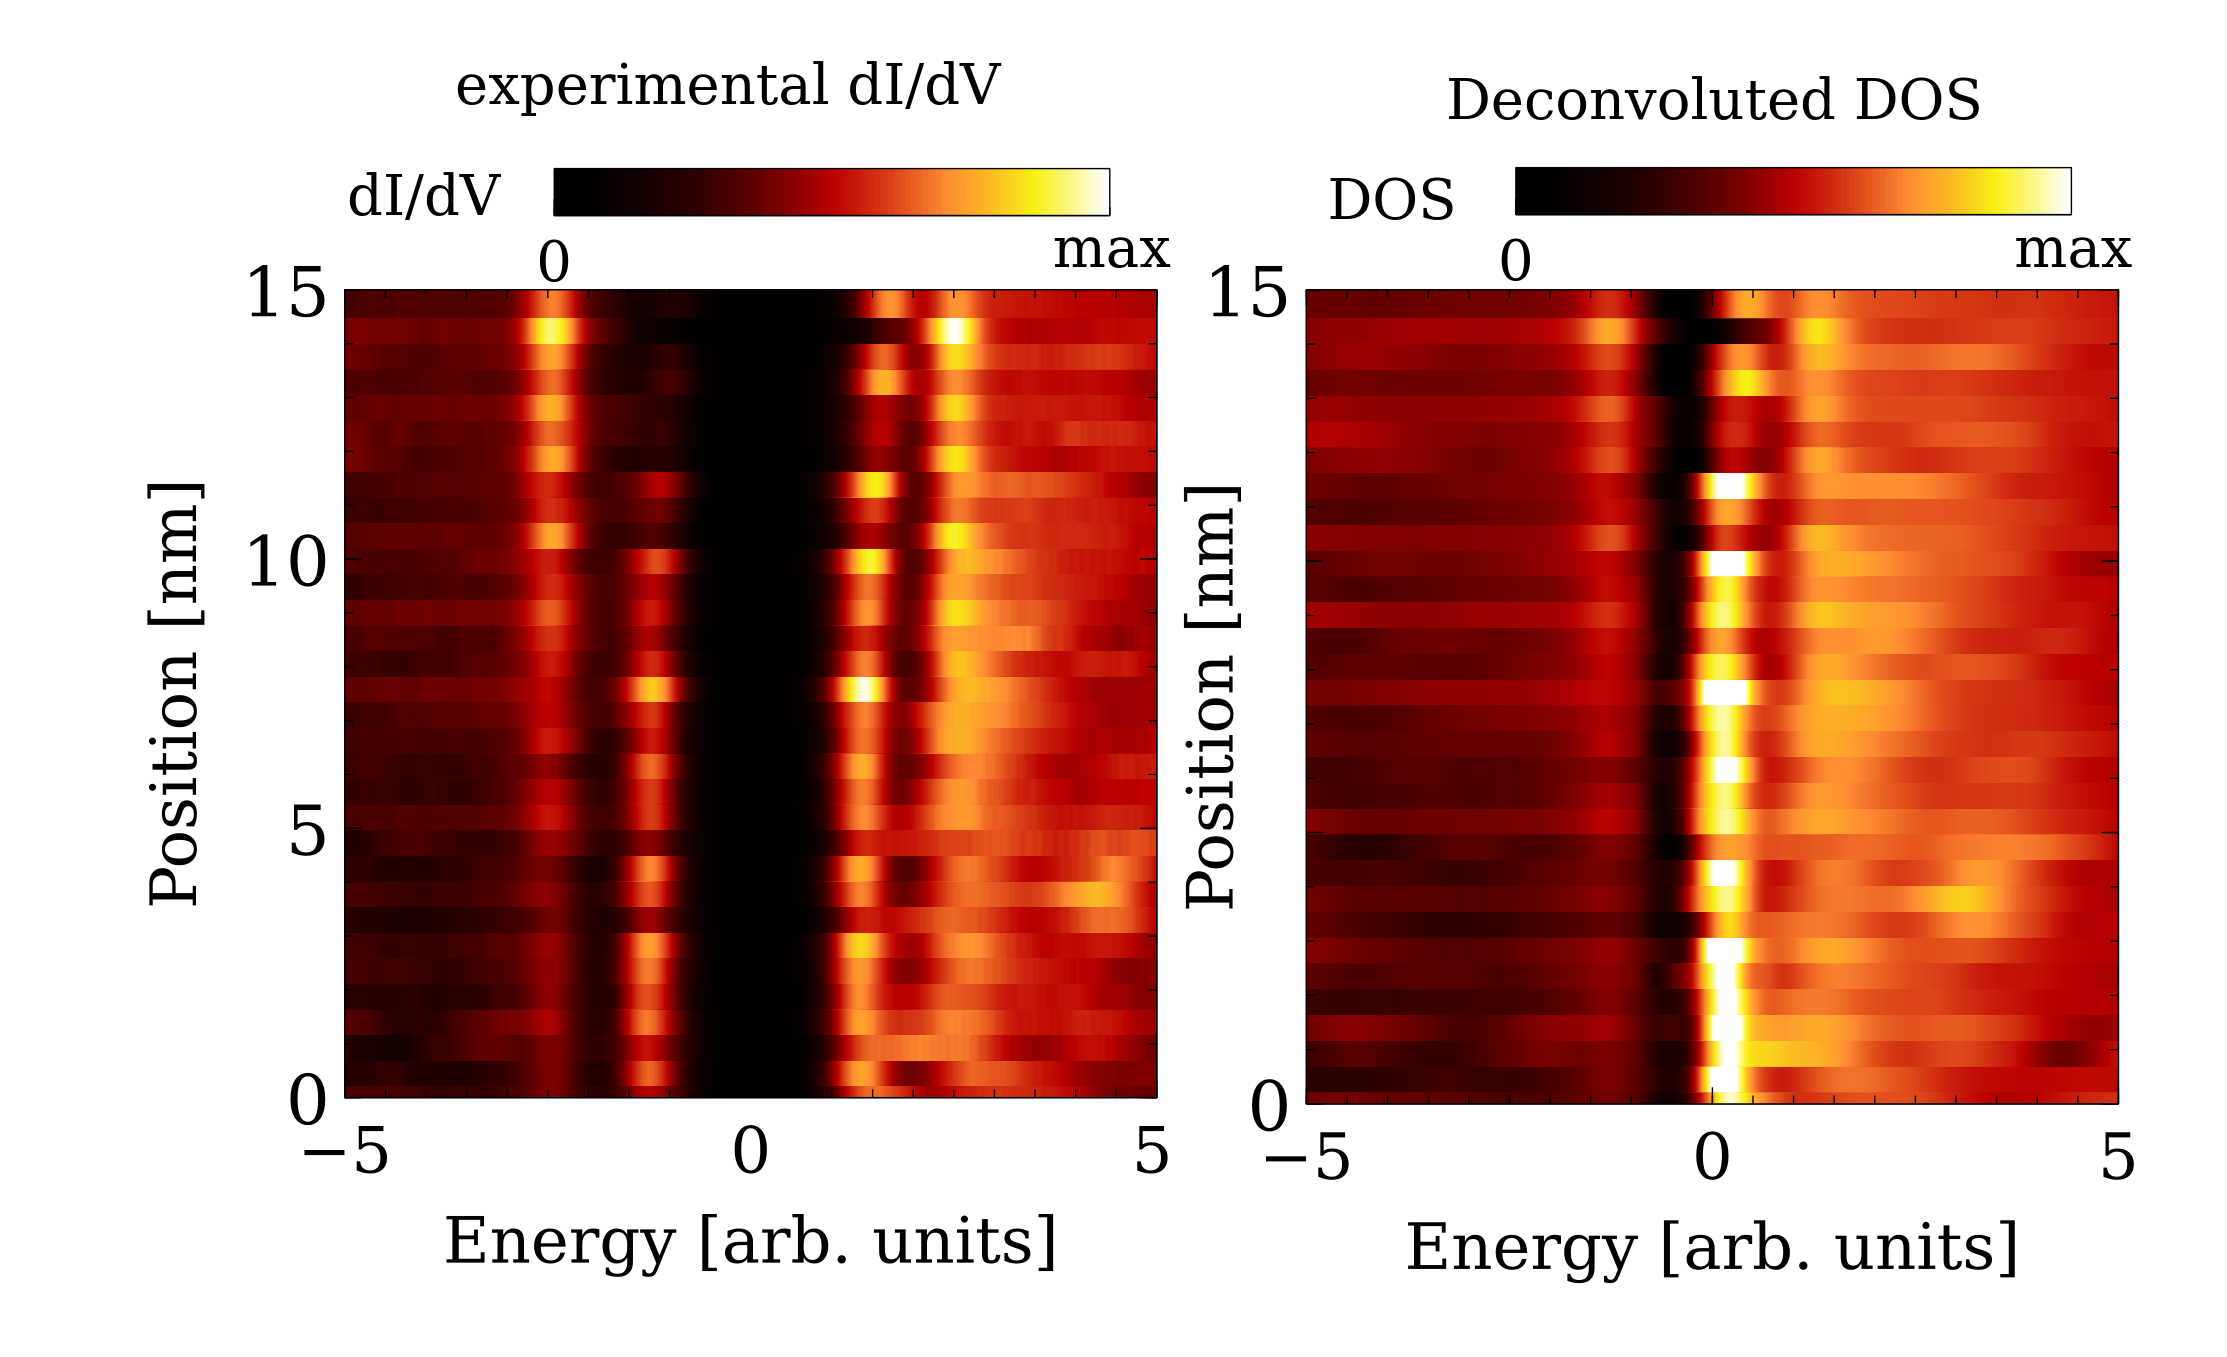
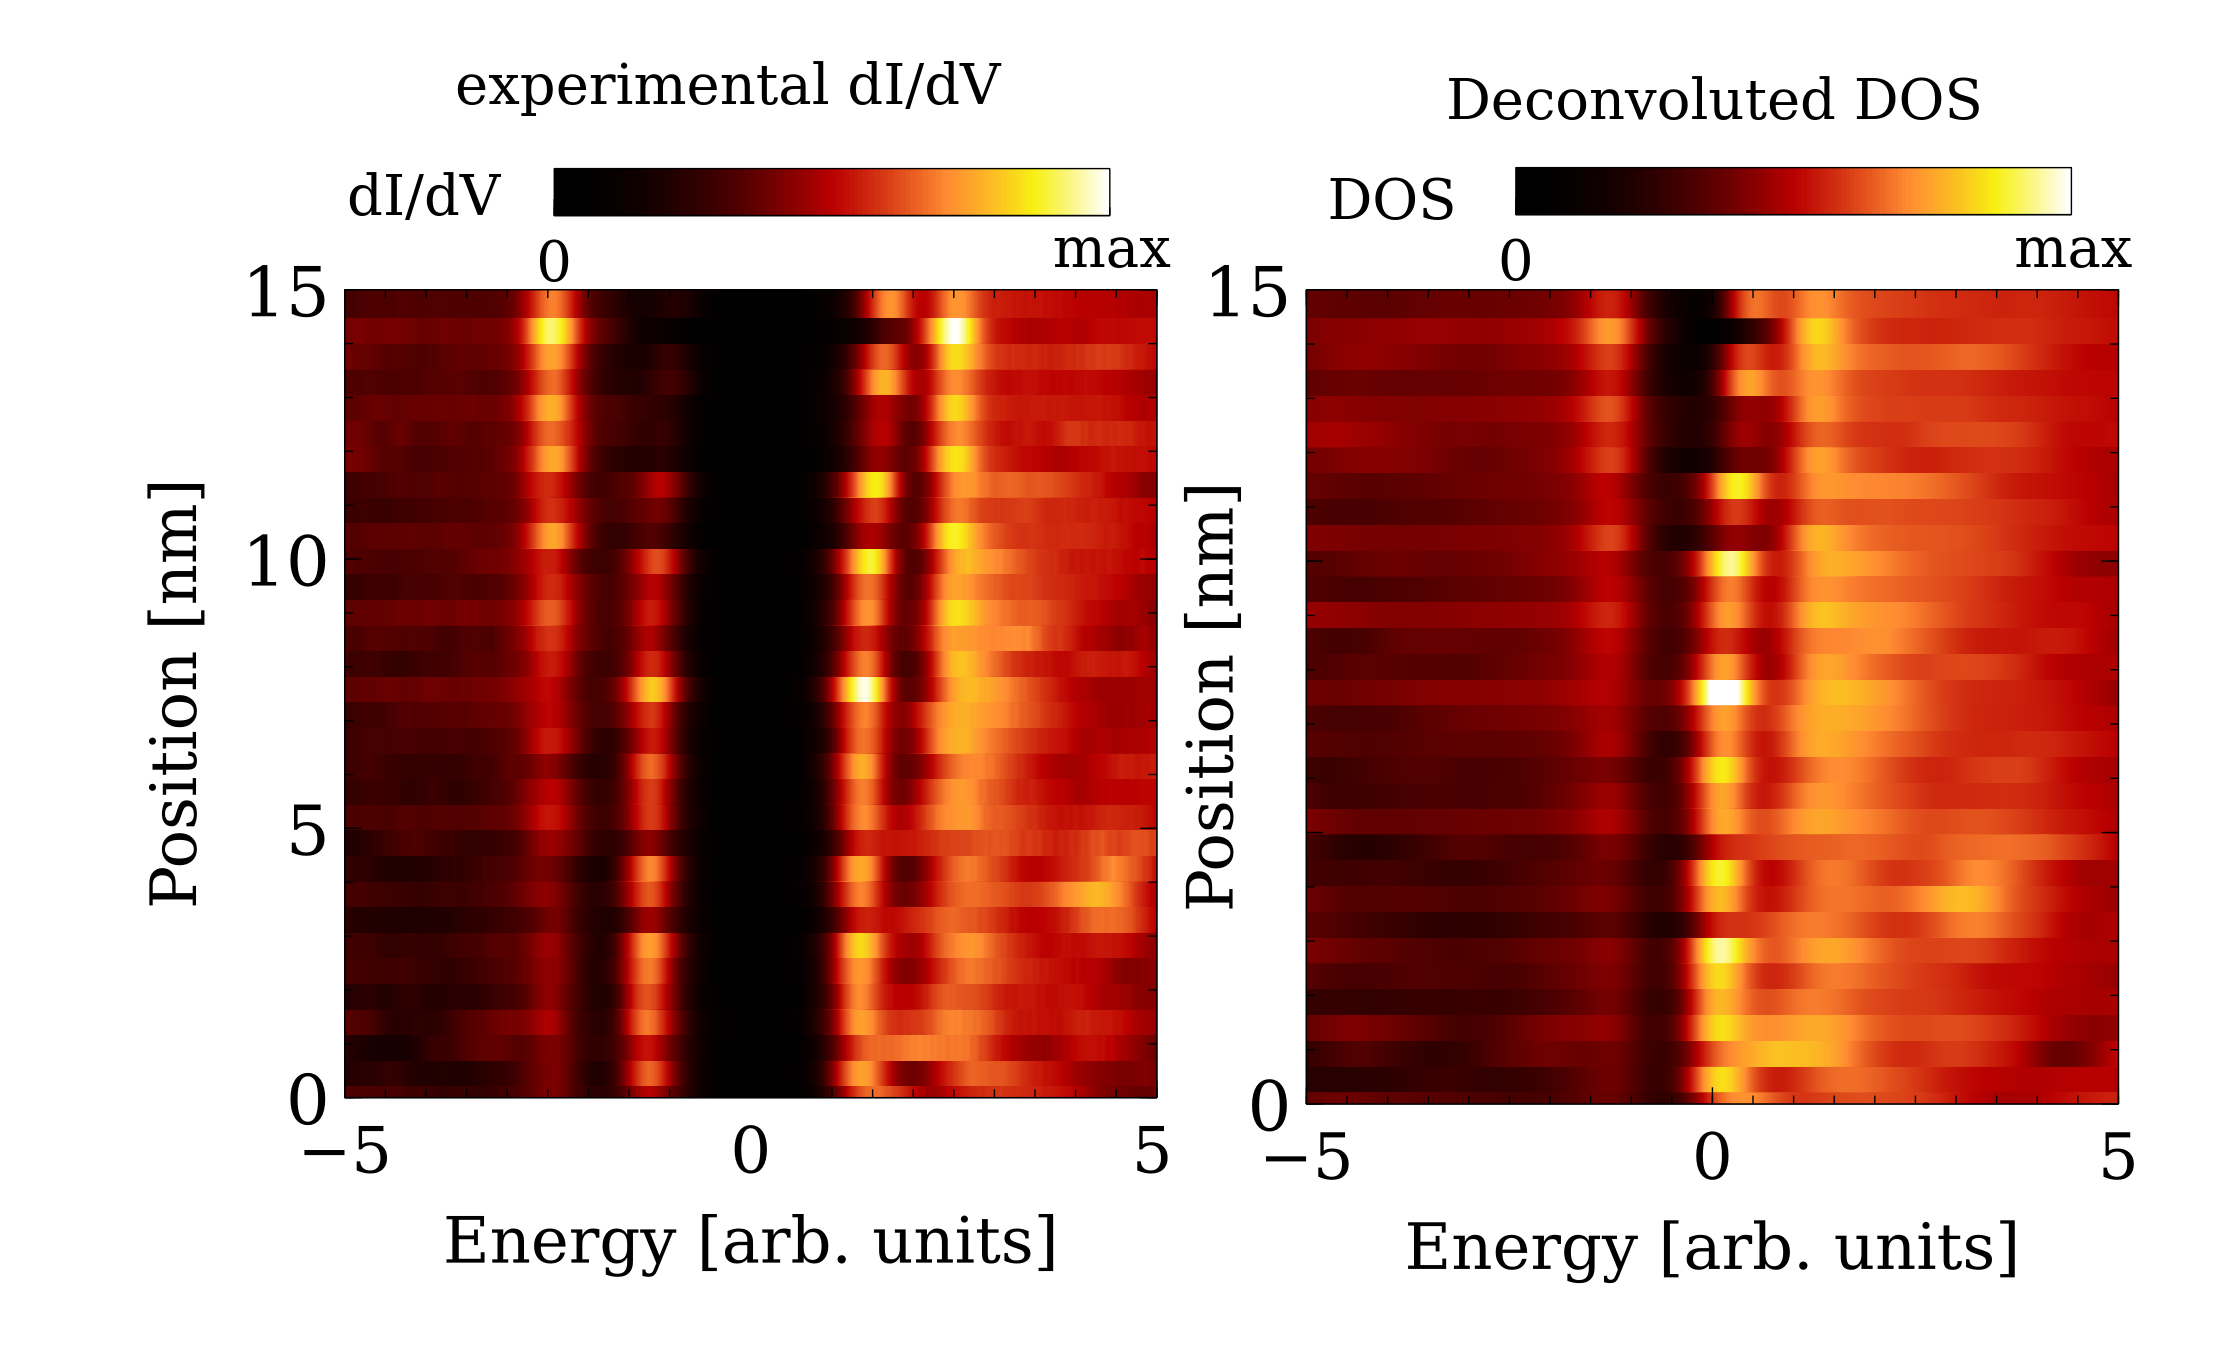
Update

Changed region(s): [[0.7436, 0.2167, 0.8056, 0.8357]]

diff --git a/src/stmdeconvpy/deconvolve.py b/src/stmdeconvpy/deconvolve.py
@@ -34,12 +34,17 @@ def best_deconvolve(x1,yexp,x2,ytip,ntries=4,return_error=False,
 
 
 def deconvolve(x1,yexp,x2,ytip,ns=None,return_error=False,
-        sol=None,sgfilter=True,n=100,**kwargs):
+        sol=None,sgfilter=True,n=100,mode="minimize",**kwargs):
     """Perform a deconvolution of a signal"""
     if ns is None:
 #        ns = [21,41,91,131]
         ni = 2*(n//2) +1 # odd number
         ns = [41,ni] # compute twice
+    if mode=="minimize":
+      from .deconvmode import single_deconvolve_minimize as single_deconvolve
+    elif mode=="algebra":
+      from .deconvmode import single_deconvolve_algebra as single_deconvolve
+    else: raise
     for ni in ns:
       (x,sol,error) = single_deconvolve(x1,yexp,x2,ytip,n=ni,sol=sol,
               return_error=True,**kwargs)
@@ -58,54 +63,7 @@ def smoothen(sol):
 
 
 
-
-def single_deconvolve(x1,yexp,x2,ytip,n=41,sol=None,
-        return_error=True,print_error=True,
-        fd1=None,fd2=None,**kwargs):
-    """
-    Deconvolve a signal of the form y1(x)*y2(x-x')dx'
-    """
-    f1 = interpolate(x1,yexp)
-    f2 = interpolate(x2,ytip)
-#    xmin = np.min([np.min(x1),np.min(x2)])
-#    xmax = np.max([np.max(x1),np.max(x2)])
-    xmax =  np.max(np.abs([np.max(x1),np.max(x2)]))
-    xmin = -xmax # same
-    # create the points centered at zero
-    xs = np.linspace(xmin,xmax,n,endpoint=True) # as many points
-    yexpn = f1(xs) # interpolated data
-    ytipn = f2(xs) # interpolated data
-    if fd1 is not None: fd1x = fd1(xs) # evaluate the function
-    if fd2 is not None: fd2x = fd2(xs) # evaluate the function
-    else: fdx = None
-    def fdiff(y): # function with the difference
-        out = fdconvolution(xs,y,ytipn,fd1=fd1x,fd2=fd2x) # special convolution
-        diff = out - yexpn # difference
-#        print(np.max(np.abs(diff)))
-        return diff
-    def f(y):
-        dd = fdiff(y)
-        # compute the error
-        error = np.abs(dd) #+ np.mean(np.abs(np.diff(dd))) 
-#        dmax = np.max(dd) # maximum error
-        error = np.sqrt(np.mean(error**2)) # define error
-        error = np.mean(np.abs(dd)) #+ np.mean(np.abs(np.diff(dd))) 
-        if print_error: print(error)
-        return error
-    bounds = [(0,10) for ix in xs]
-    if sol is None: x0 = np.random.random(len(xs))
-    #derivative(xs,yexpn) # default try
-    else: x0 = interpolate(x1,sol)(xs)
-    res = minimize(f,x0,method="SLSQP",bounds=bounds,
-            options={"ftol":1e-10,"maxiter":10000})
-#    res = minimize(f,res.x,method="Powell")
-    yout = interpolate(xs,res.x)(x1)
-    if return_error:  return (x1,yout,f(res.x))
-    else:  return (x1,yout)
-
-
 # this is a failed attempt to use linalg to solve the problem
-#from .deconvolvelstsq import single_deconvolve
 
 
 
@@ -127,27 +85,6 @@ def deconvolve_exact(x1,yexp,x2,ytip,fd1=None,fd2=None,
 
 
 #deconvolve = deconvolve_exact
-
-
-
-def fdconvolution(x,y1,y2,fd1=None,fd2=None):
-    """Fermi Dirac convolution"""
-    if fd1 is None and fd2 is None: # no function given
-        return np.convolve(y1,y2,mode="same")/len(y1)
-        f1 = interpolate(x,y1) # interpolate
-        f2 = interpolate(x,y2) # interpolate
-        dx = max(x) - min(x)
-        xs = np.linspace(min(x)-dx,max(x)+dx,len(x)*20) # as many points
-        y3 = np.convolve(f1(xs),f2(xs),mode="same")
-        return interpolate(xs,y3)(x)
-    else: # assume that there is a Fermi Dirac distribution as input 
-        from .fdconvolution import fdconv
-        if callable(fd1): fd1x = fd1(x) # call function
-        else: fd1x = fd1 # assume it is an array
-        if callable(fd2): fd2x = fd2(x) # call function
-        else: fd2x = fd2 # assume it is an array
-        return fdconv(y1,y2,fd1x,fd2x)/len(x)
-
 
 
 
@@ -189,6 +126,7 @@ def convolve_dos(x1,y1,x2,y2,n=None,Ttip=0.0,Tsur=0.0,T=None):
 #    xmax = np.max([np.max(x1),np.max(x2)])
     if n is None: n = len(x1) # as many as x1
     xs = np.linspace(xmin,xmax,n,endpoint=True) # as many points
+    from .fdconvolution import fdconvolution
     yc = fdconvolution(xs,f1(xs),f2(xs),fd1=fd1(xs),fd2=fd2(xs))
     yo = interpolate(xs,yc)(x1)
     return (x1,yo) # return

diff --git a/src/stmdeconvpy/deconvmode.py b/src/stmdeconvpy/deconvmode.py
@@ -1,0 +1,89 @@
+import numpy as np
+from .fdconvolution import fdconvolution
+from .profiles import interpolate
+
+
+def single_deconvolve_algebra(x1,yexp,x2,ytip,n=41,sol=None,
+        return_error=True,print_error=True,
+        fd1=None,fd2=None,**kwargs):
+    """
+    Deconvolve a signal of the form y1(x)*y2(x-x')dx'
+    """
+    f1 = interpolate(x1,yexp) # interpolate
+    f2 = interpolate(x2,ytip) # interpolate
+    xmax =  np.max(np.abs([np.max(x1),np.max(x2)]))
+    xmin = -xmax # same
+    # create the points centered at zero
+    xs = np.linspace(xmin,xmax,n,endpoint=True) # as many points
+    yexpn = f1(xs) # interpolated data
+    ytipn = f2(xs) # interpolated data
+    if fd1 is not None: fd1x = fd1(xs) # evaluate the function
+    if fd2 is not None: fd2x = fd2(xs) # evaluate the function
+    else: fdx = None
+    def LO(y): # function returning the linear action on the DOS
+        out = fdconvolution(xs,y,ytipn,fd1=fd1x,fd2=fd2x) # special convolution
+        return out
+    # create the matrix of the linear operator
+    MLO = np.zeros((n,n),dtype=np.complex) # initialize
+    for i in range(n): # loop
+        v = np.zeros(n) ; v[i] = 1.0 # element of the basis
+        w = LO(v)
+        MLO[:,i] = w # store
+    import scipy.linalg as lg
+ #   for i in range(n): MLO[i,i] += 1j*0.01
+ #   yout = lg.solve(MLO,yexpn).real
+    yout = lg.lstsq(MLO,yexpn,cond=1e-5)[0]
+    error = 1.0
+    yout = interpolate(xs,yout,positive=True)(x1)
+    if return_error:  return (x1,yout,error)
+    else:  return (x1,yout)
+
+
+
+
+
+def single_deconvolve_minimize(x1,yexp,x2,ytip,n=41,sol=None,
+        return_error=True,print_error=True,
+        fd1=None,fd2=None,**kwargs):
+    """
+    Deconvolve a signal of the form y1(x)*y2(x-x')dx'
+    """
+    from scipy.optimize import minimize
+    f1 = interpolate(x1,yexp)
+    f2 = interpolate(x2,ytip)
+#    xmin = np.min([np.min(x1),np.min(x2)])
+#    xmax = np.max([np.max(x1),np.max(x2)])
+    xmax =  np.max(np.abs([np.max(x1),np.max(x2)]))
+    xmin = -xmax # same
+    # create the points centered at zero
+    xs = np.linspace(xmin,xmax,n,endpoint=True) # as many points
+    yexpn = f1(xs) # interpolated data
+    ytipn = f2(xs) # interpolated data
+    if fd1 is not None: fd1x = fd1(xs) # evaluate the function
+    if fd2 is not None: fd2x = fd2(xs) # evaluate the function
+    else: fdx = None
+    def fdiff(y): # function with the difference
+        out = fdconvolution(xs,y,ytipn,fd1=fd1x,fd2=fd2x) # special convolution
+        diff = out - yexpn # difference
+#        print(np.max(np.abs(diff)))
+        return diff
+    def f(y):
+        dd = fdiff(y)
+        # compute the error
+        error = np.abs(dd) #+ np.mean(np.abs(np.diff(dd))) 
+#        dmax = np.max(dd) # maximum error
+        error = np.sqrt(np.mean(error**2)) # define error
+        error = np.mean(np.abs(dd)) #+ np.mean(np.abs(np.diff(dd))) 
+        if print_error: print(error)
+        return error
+    bounds = [(0,10) for ix in xs]
+    if sol is None: x0 = np.random.random(len(xs))
+    #derivative(xs,yexpn) # default try
+    else: x0 = interpolate(x1,sol)(xs)
+    res = minimize(f,x0,method="SLSQP",bounds=bounds,
+            options={"ftol":1e-10,"maxiter":10000})
+#    res = minimize(f,res.x,method="Powell")
+    yout = interpolate(xs,res.x,positive=True)(x1)
+    if return_error:  return (x1,yout,f(res.x))
+    else:  return (x1,yout)
+

diff --git a/main/single/main.py b/main/single/main.py
@@ -23,11 +23,20 @@ parser.add_argument("--ntries",default=4,help='Take the best out of ntries minim
 parser.add_argument("--maxn",default=100,help='Maximum number of grid points used in the deconvolution, increase it for higher accuracy')
 parser.add_argument("--gamma",default=0.01,help='Gamma smearing of the Dynes superconducting DOS')
 parser.add_argument("--show",default="true",help='Show the result')
+parser.add_argument("--mode",default="minimize",help='Mode of the calculation, minimize is the feault, whereas algebra is faster')
 parser.add_argument("--TinKVinmeV",default="false",help='Temperature in Kelvin, energies in meV')
 args = parser.parse_args()
 
+#### preprocessing of the arguments
+if args.mode=="algebra":
+    print("Calculation mode is algebra, taking a single try")
+    args.ntries = 1
+
+
+
 print("Reading data from ",args.input)
 print("The script will perform ",args.ntries,"minimizations")
+
 
 # get the data
 #(V,dIdV_exp) = dataset.opencur(args.input) # get the data
@@ -87,7 +96,7 @@ if args.TinKVinmeV=="true":
 xn,dos_sur_dc,error = deconvolve.deconvolve_I(V,I_exp,V,dos_tip,
         return_error = True,n=maxn,
         ntries=int(args.ntries),print_error=False,Ttip=Ttip,
-        Tsur=Tsur)
+        Tsur=Tsur,mode=args.mode)
 
 # write the surface DOS
 #xn,dos_sur_dc,error = dataset.crop_uncertainty(xn,dos_sur_dc,error)

diff --git a/src/stmdeconvpy/fdconvolution.py b/src/stmdeconvpy/fdconvolution.py
@@ -52,4 +52,20 @@ def conv(y1,y2):
 
 
 
+def fdconvolution(x,y1,y2,fd1=None,fd2=None):
+    """Fermi Dirac convolution"""
+    if fd1 is None and fd2 is None: # no function given
+        return np.convolve(y1,y2,mode="same")/len(y1)
+        f1 = interpolate(x,y1) # interpolate
+        f2 = interpolate(x,y2) # interpolate
+        dx = max(x) - min(x)
+        xs = np.linspace(min(x)-dx,max(x)+dx,len(x)*20) # as many points
+        y3 = np.convolve(f1(xs),f2(xs),mode="same")
+        return interpolate(xs,y3)(x)
+    else: # assume that there is a Fermi Dirac distribution as input 
+        if callable(fd1): fd1x = fd1(x) # call function
+        else: fd1x = fd1 # assume it is an array
+        if callable(fd2): fd2x = fd2(x) # call function
+        else: fd2x = fd2 # assume it is an array
+        return fdconv(y1,y2,fd1x,fd2x)/len(x)
 

diff --git a/main/map/main.py b/main/map/main.py
@@ -37,6 +37,9 @@ x = []
 y = []
 z = []
 d = []
+os.system("mkdir stmdeconvtmp")
+print("Creating folder stmdeconvtmp, it will be cleaned at the end")
+os.chdir("stmdeconvtmp") # go to the folder
 for i in range(len(m)):
     mi = m[i]
     np.savetxt("temp.txt",np.array([mi[0],mi[2]]).T)
@@ -46,6 +49,10 @@ for i in range(len(m)):
     y = np.concatenate([y,mi[1]])
     z = np.concatenate([z,out[1]])
     d = np.concatenate([d,out[2]])
-    np.savetxt("DECONVOLUTED_DOS_MAP.OUT",np.array([x,y,z,d]).T)
+    np.savetxt("../DECONVOLUTED_DOS_MAP.OUT",np.array([x,y,z,d]).T)
     print("Saved data in DECONVOLUTED_DOS_MAP.OUT")
+os.system("cp TIP_DOS.OUT ../") # copy to the previous folder
+os.chdir("..")
+os.system("rm -rf stmdeconvtmp") # cleaning temporal folder
+print("Deconvolution finished")
 

diff --git a/src/stmdeconvpy/profiles.py b/src/stmdeconvpy/profiles.py
@@ -78,9 +78,15 @@ def derivative(x,y):
 
 
 from scipy.interpolate import interp1d
-def interpolate(x,y,mode="cubic"):
-    f = interp1d(x,y,fill_value=(y[0],y[len(y)-1]),
+def interpolate(x,y,mode="cubic",positive=False):
+    if positive: # enforce the function to be positive
+        y2 = np.abs(y) # enforce the function to be positive
+    else: y2 = y
+    f = interp1d(x,y2,fill_value=(y[0],y[len(y)-1]),
             bounds_error=False,kind=mode)
+    if positive: # enforce the function to be positive
+        f2 = lambda x: np.abs(f(x))
+    else: f2 = f
     return f
 
 
